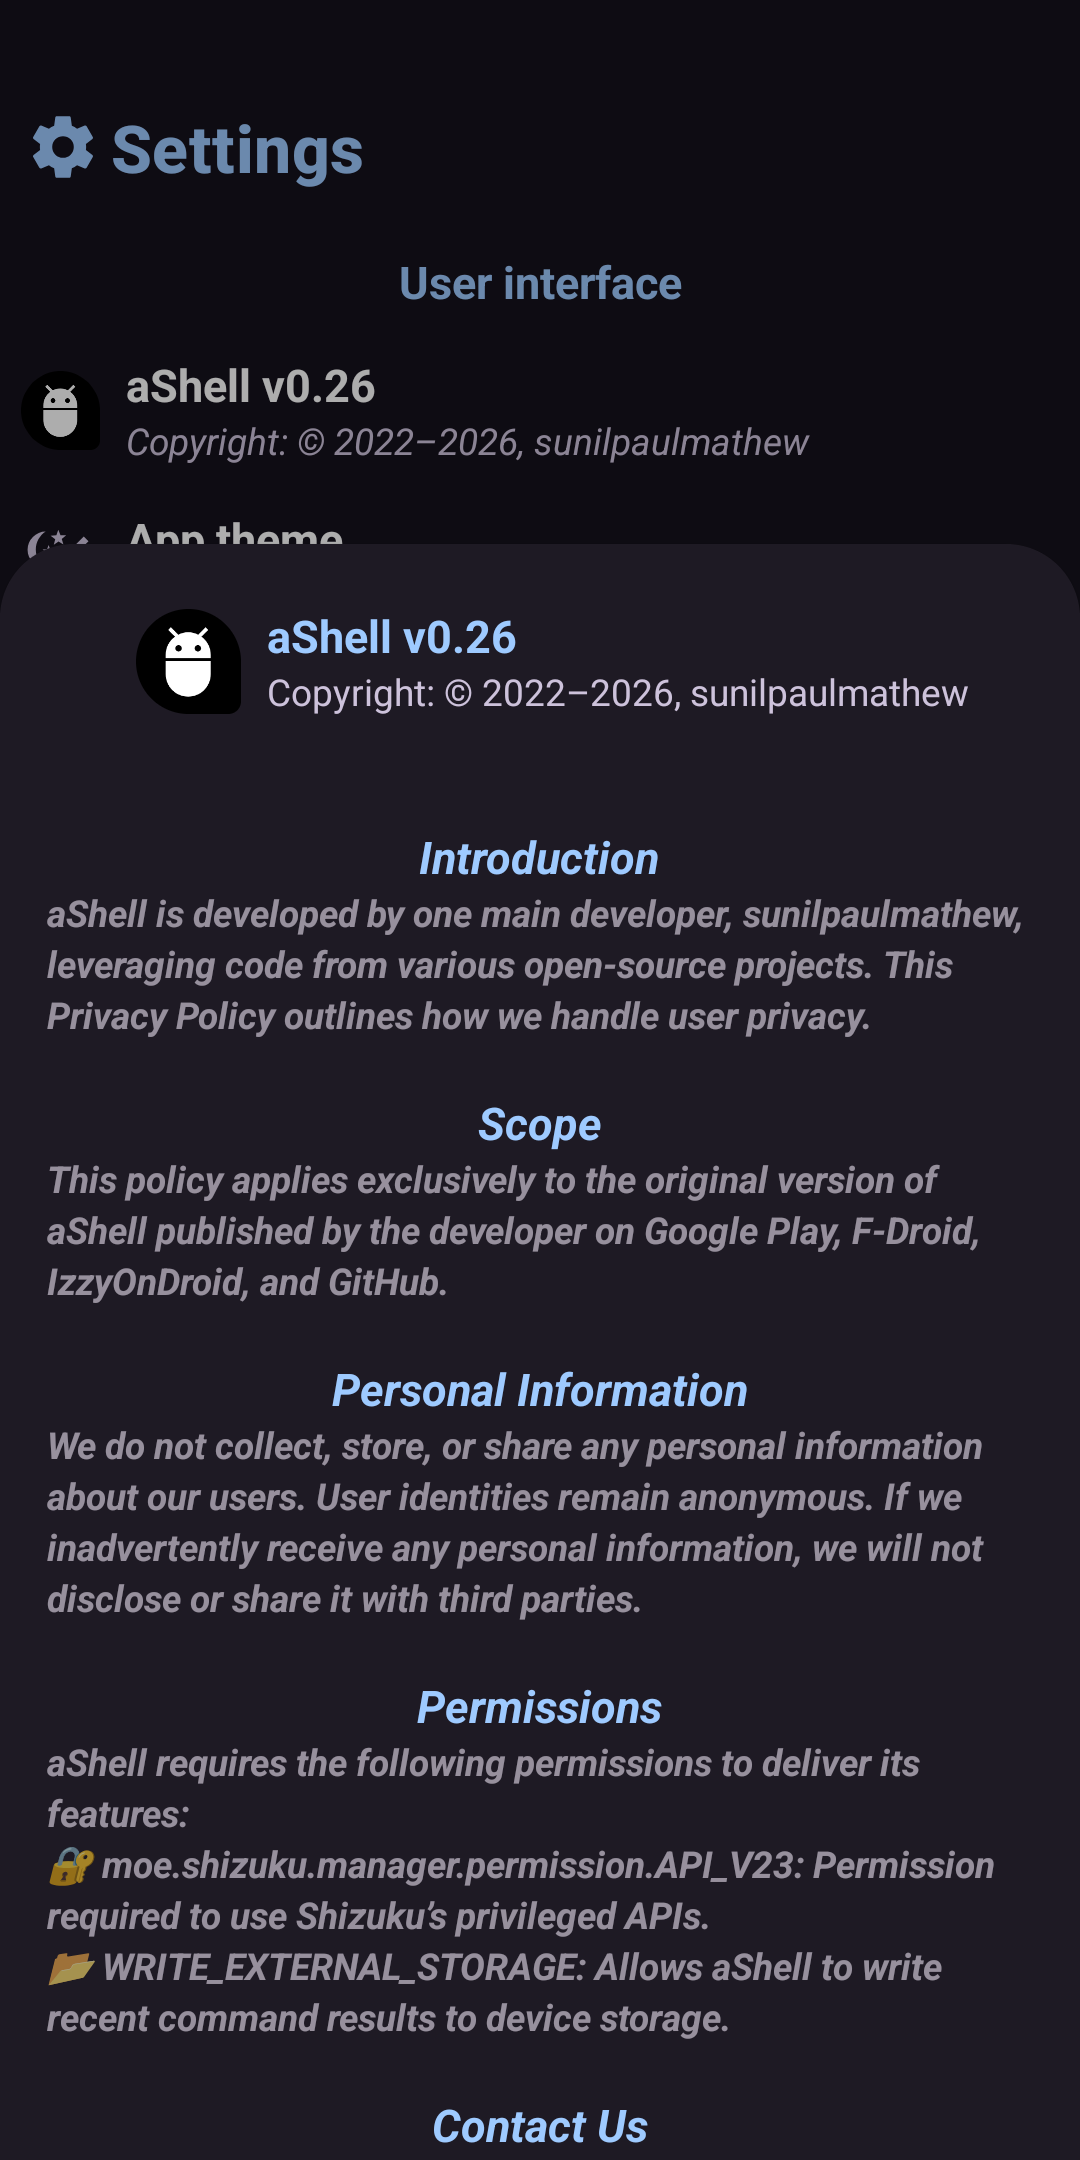
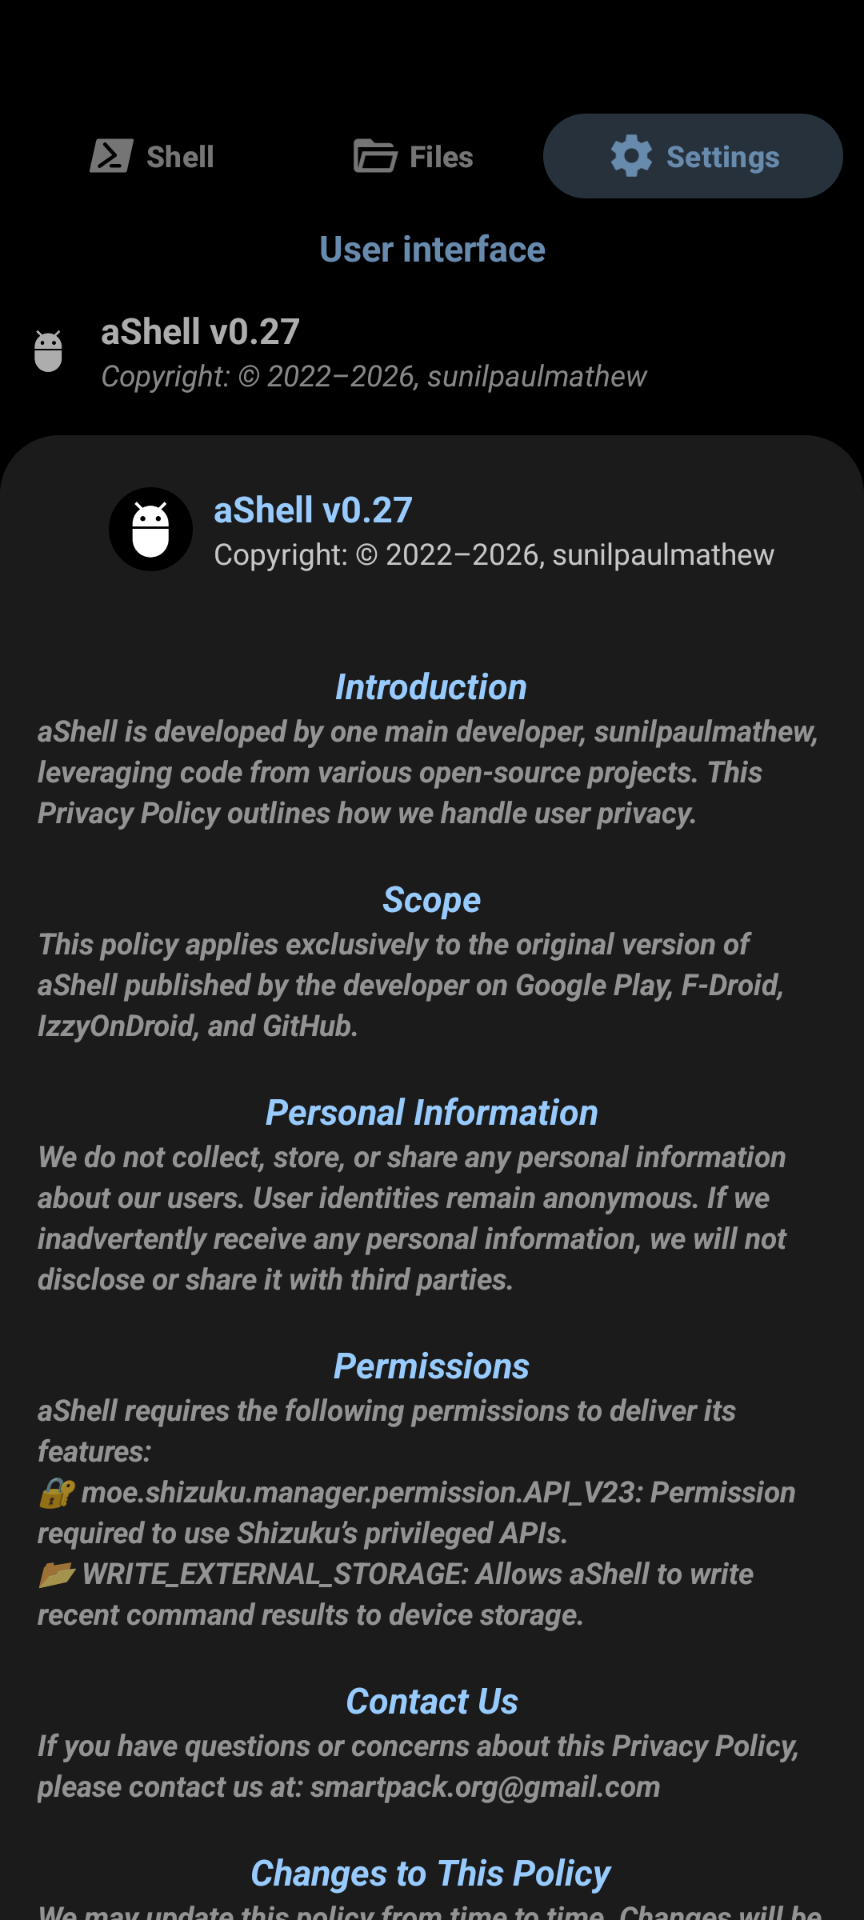
fastlane: Updated phoneScreenshots

diff --git a/README.md b/README.md
@@ -1,6 +1,6 @@
 # aShell - Effortlessly execute ADB commands on your Shizuku-enabled Android device.
 
-<p style="text-align: center"><img src="https://gitlab.com/sunilpaulmathew/ashell/-/raw/master/fastlane/metadata/android/en-US/images/phoneScreenshots/4.png" alt="" width="250" height="450" /> <img src="https://gitlab.com/sunilpaulmathew/ashell/-/raw/master/fastlane/metadata/android/en-US/images/phoneScreenshots/1.png" alt="" width="250" height="450" /> <img src="https://gitlab.com/sunilpaulmathew/ashell/-/raw/master/fastlane/metadata/android/en-US/images/phoneScreenshots/2.png" alt="" width="250" height="450" /></p>
+<p style="text-align: center"><img src="https://gitlab.com/sunilpaulmathew/ashell/-/raw/master/fastlane/metadata/android/en-US/images/phoneScreenshots/2.png" alt="" width="250" height="450" /> <img src="https://gitlab.com/sunilpaulmathew/ashell/-/raw/master/fastlane/metadata/android/en-US/images/phoneScreenshots/1.png" alt="" width="250" height="450" /> <img src="https://gitlab.com/sunilpaulmathew/ashell/-/raw/master/fastlane/metadata/android/en-US/images/phoneScreenshots/5.png" alt="" width="250" height="450" /></p>
 
 [![](https://img.shields.io/badge/aShell-v0.27-green)](https://play.google.com/store/apps/details?id=in.sunilpaulmathew.ashell)
 
